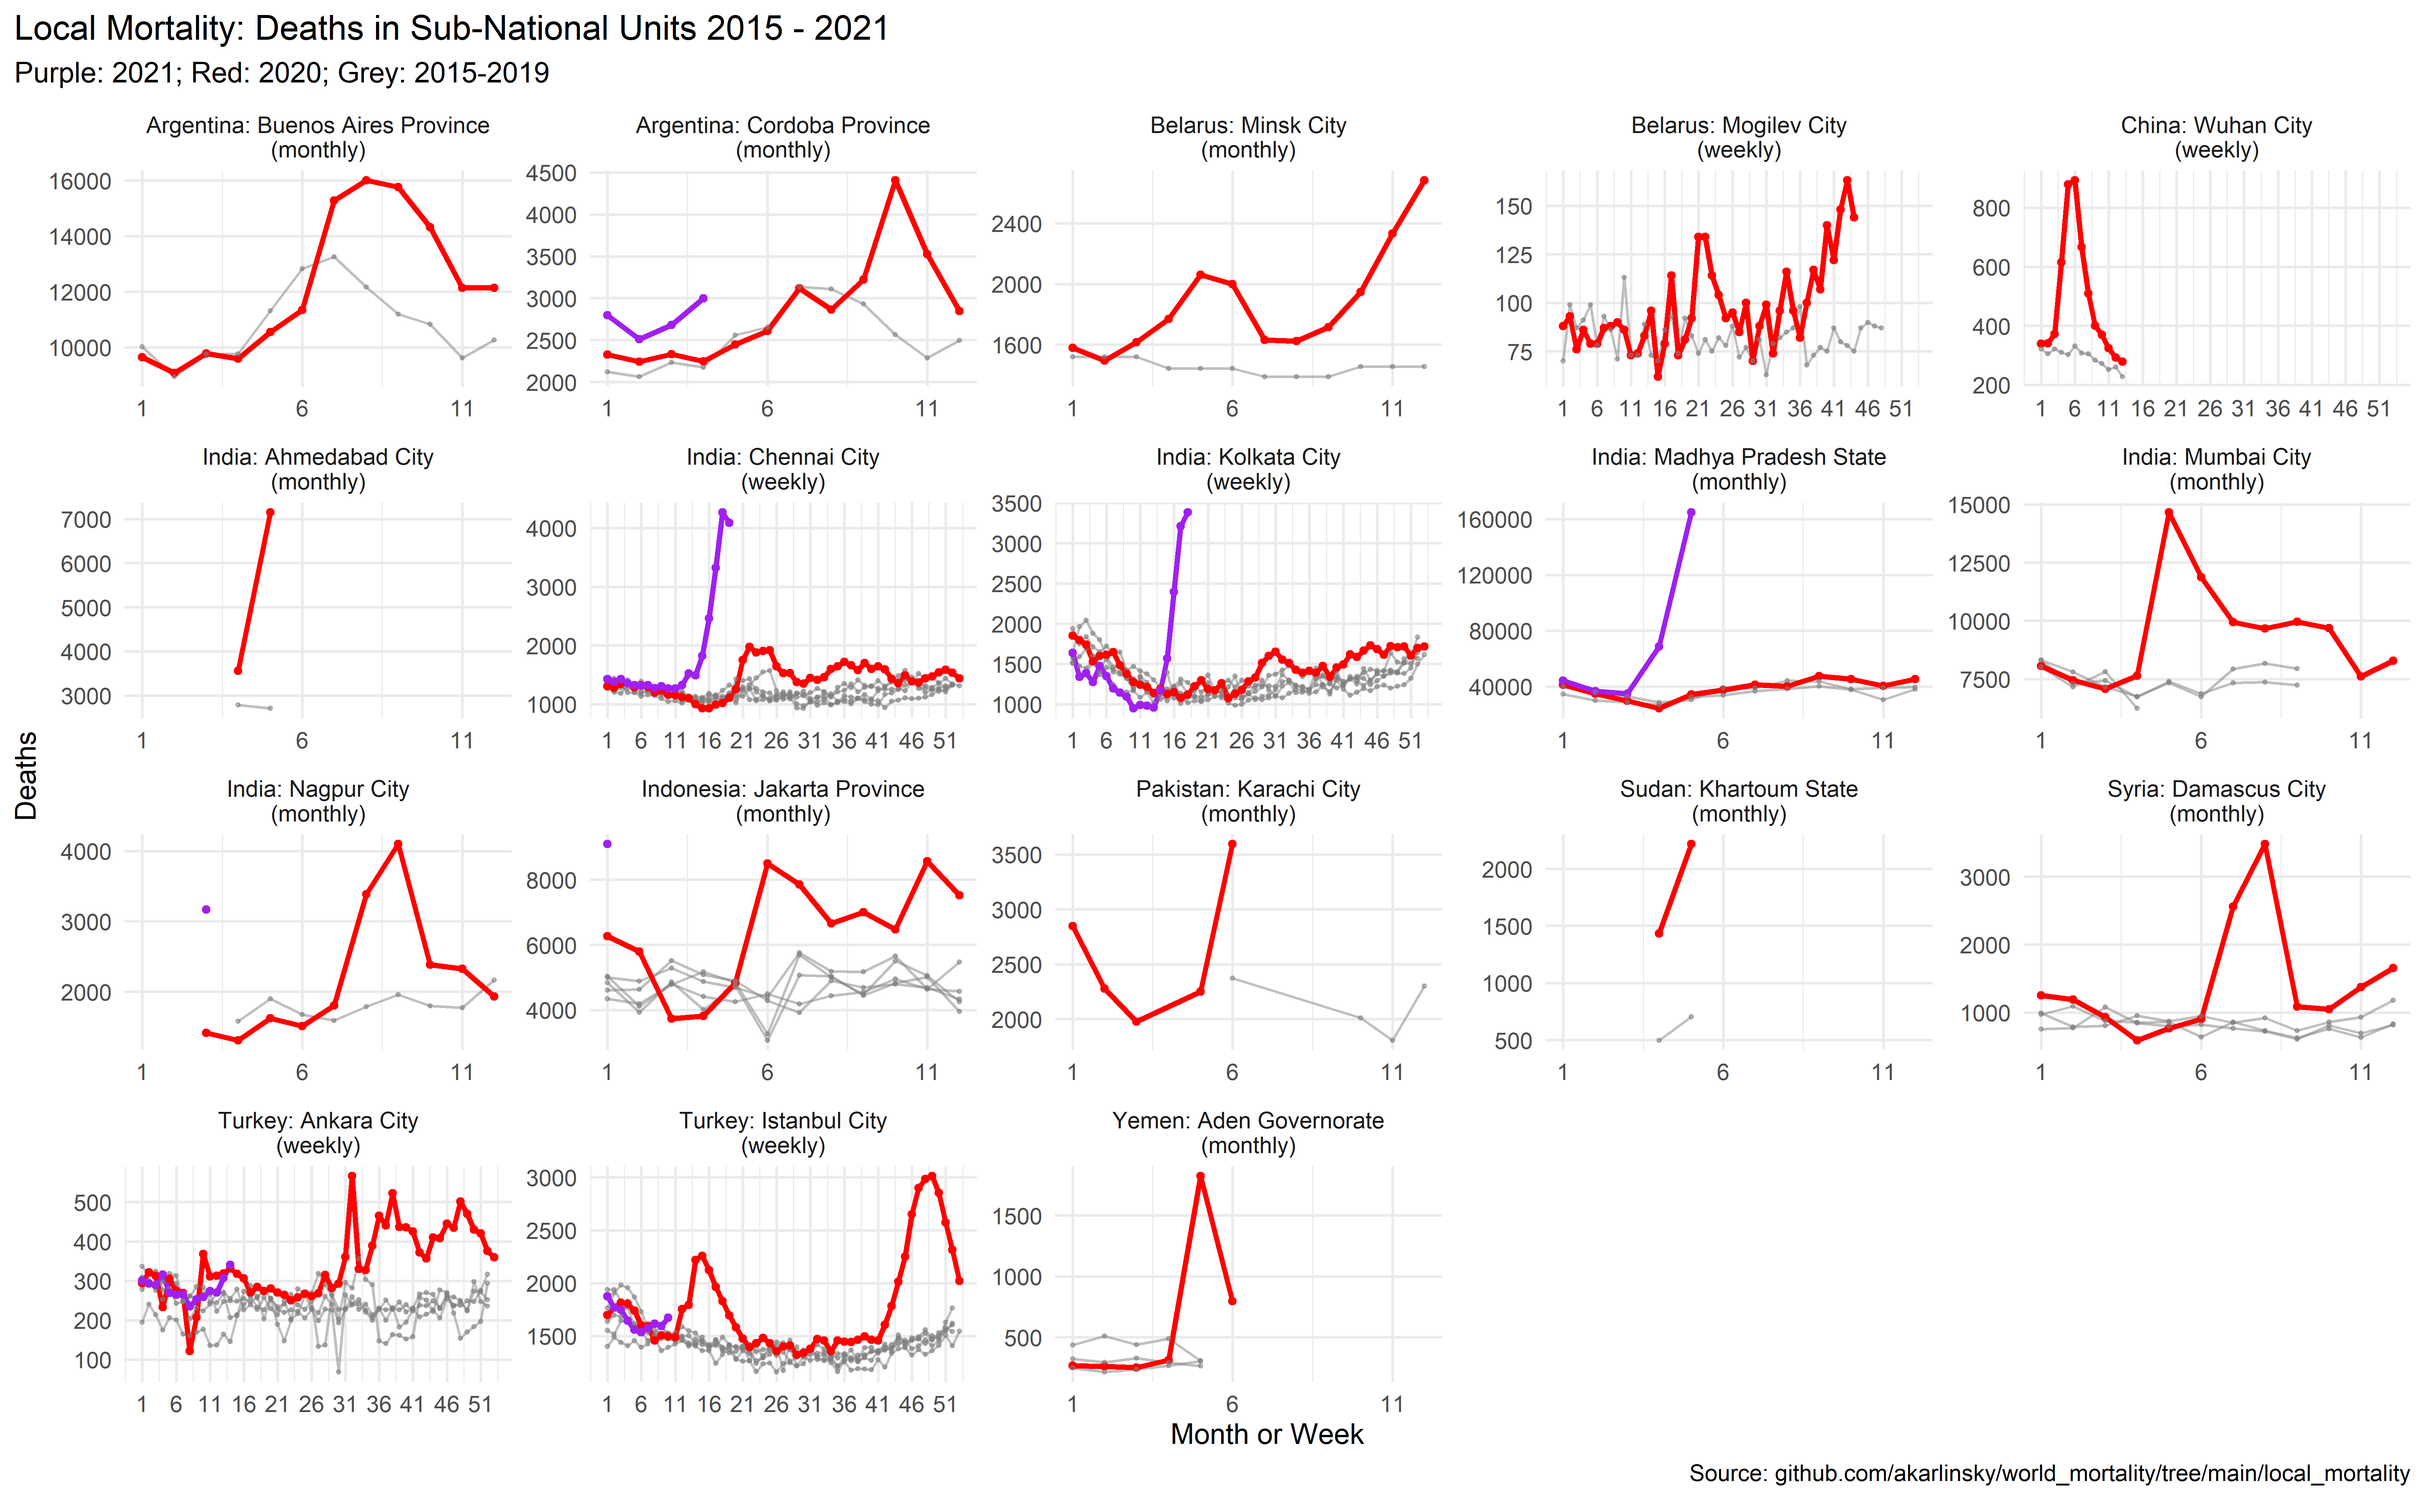
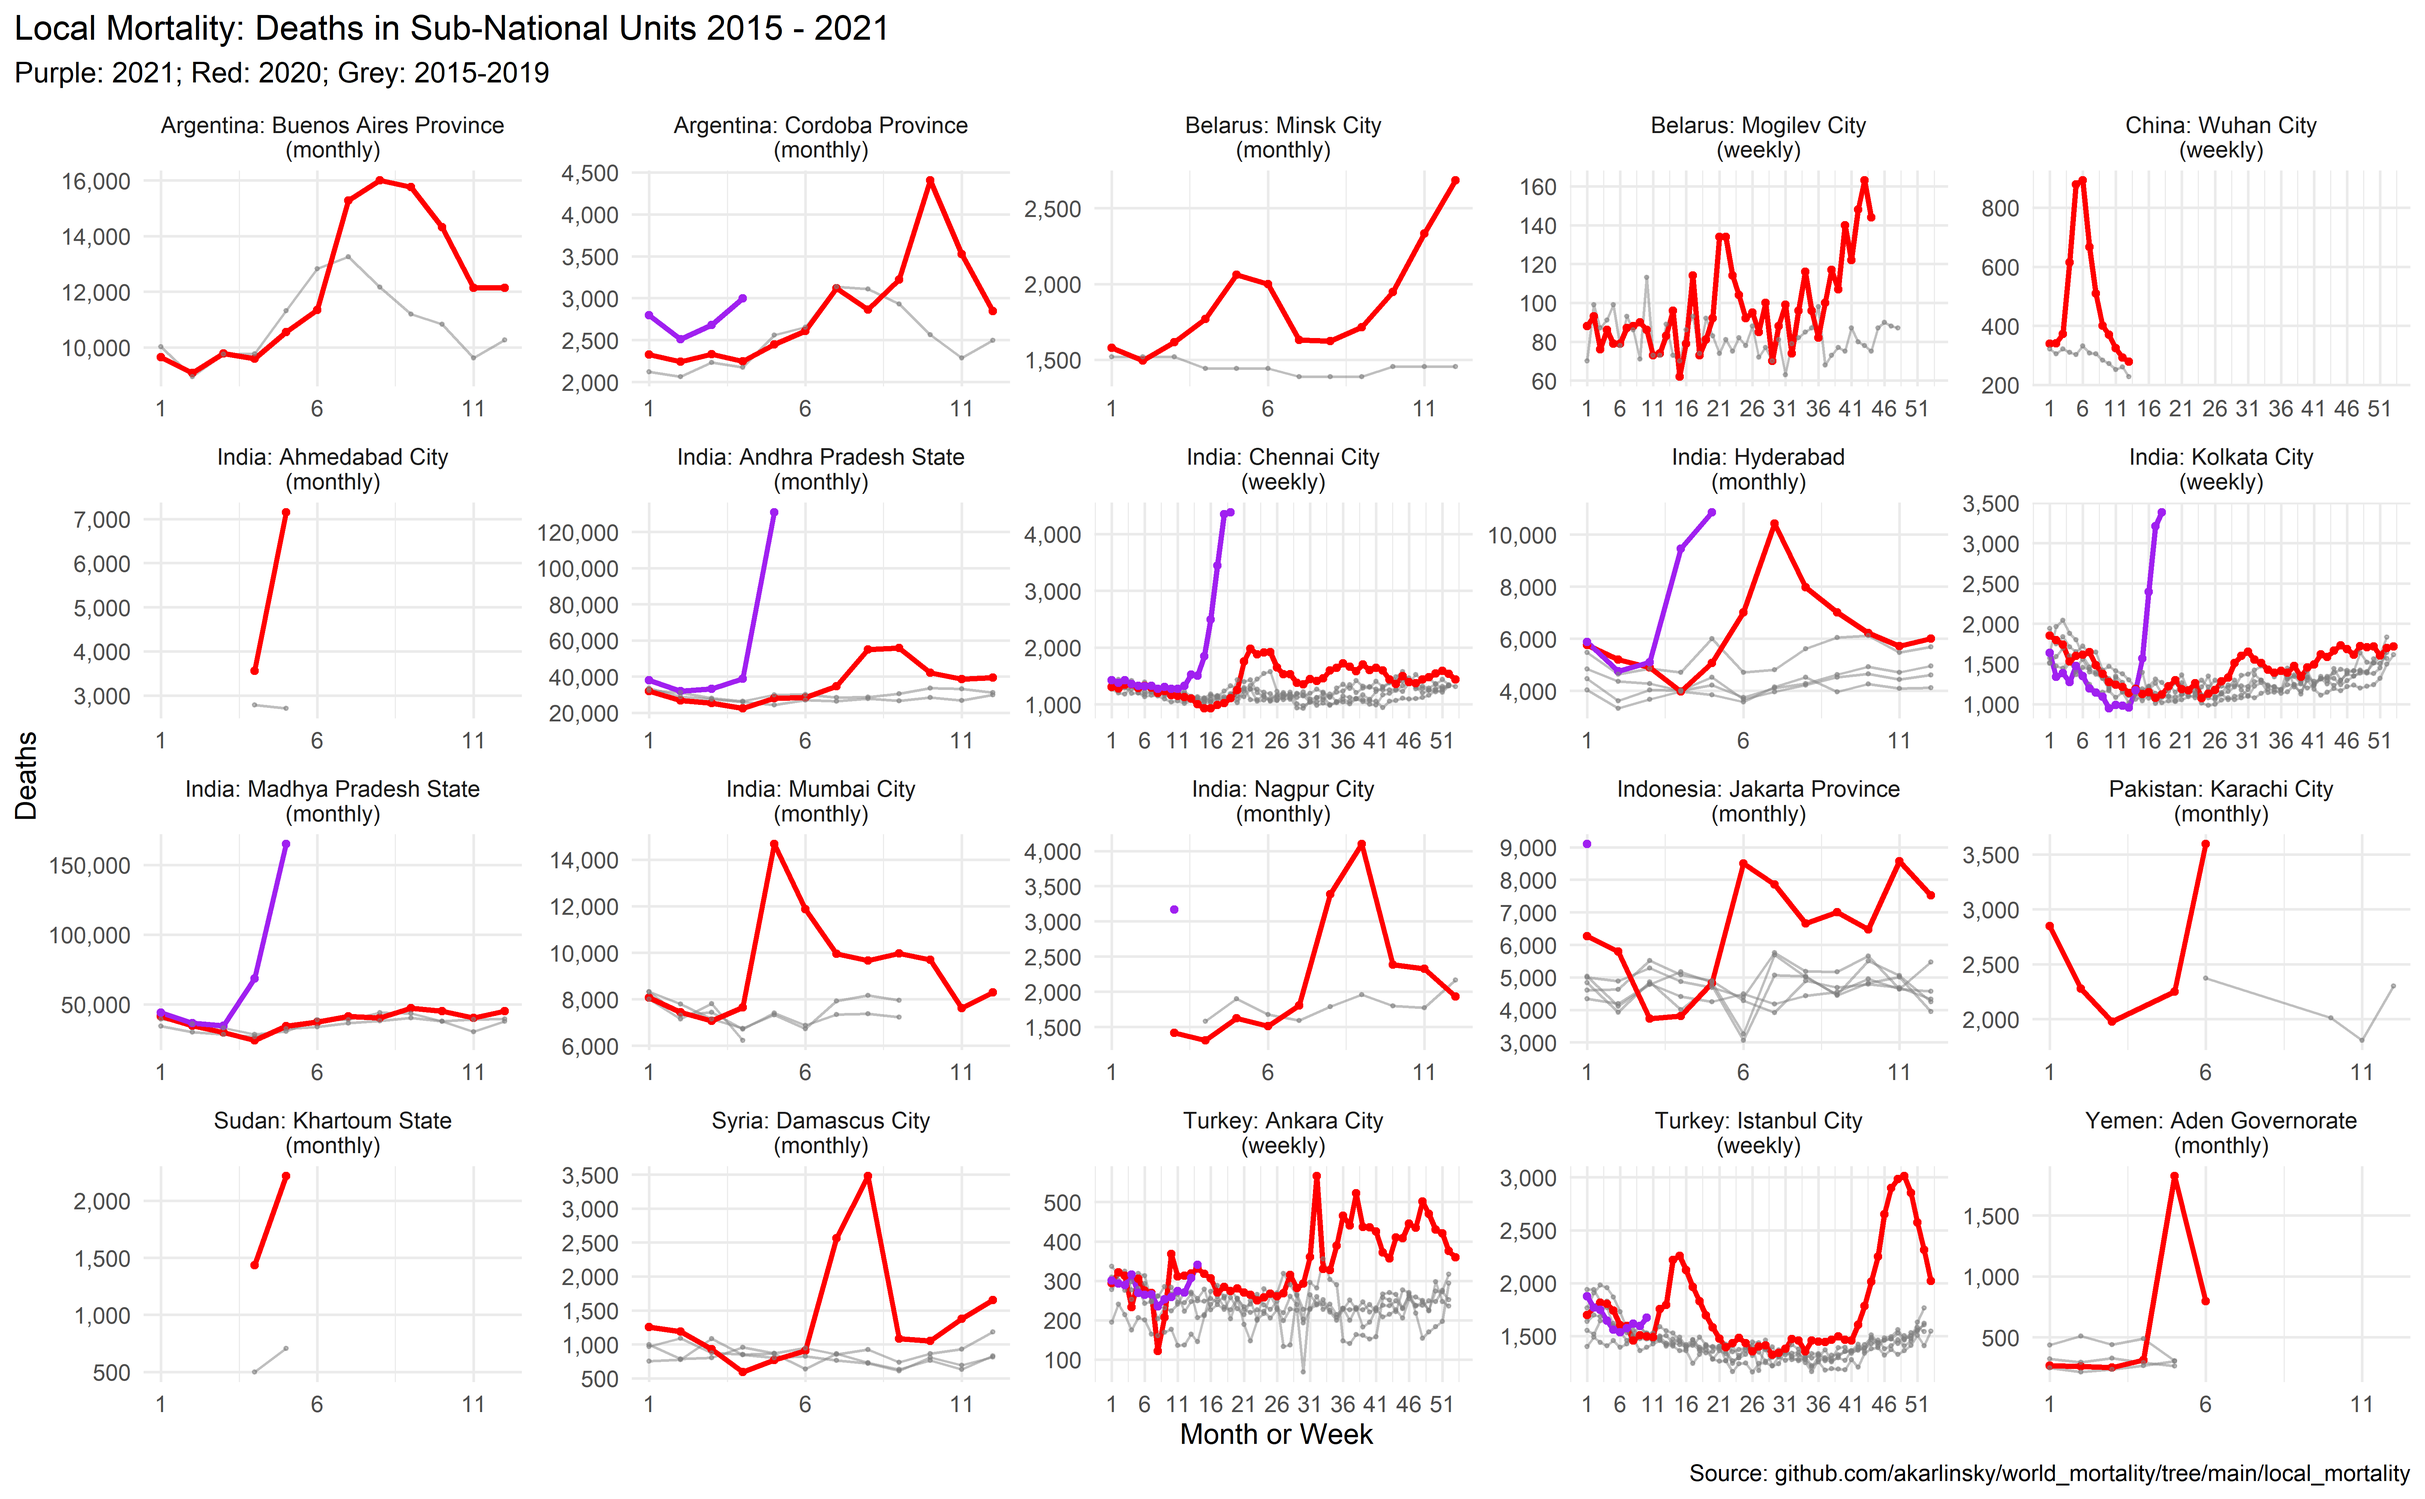
Local Mortality and Preliminary Mortality Update
- New:
Tamil Nadu state, India.
Andhra Pradesh State, India.
Greater Hyderabad, India.

- Revisions: Chennai, India.

diff --git a/local_mortality/README.md b/local_mortality/README.md
@@ -52,10 +52,21 @@ https://www.bmj.com/content/372/bmj.n415
 ### Ahmedabad City
 https://www.reuters.com/article/us-health-coronavirus-india-casualties-idUSKBN24311A
 
+### Andhra Pradesh State
+Andhra Pradesh Civil Registration System, as reported in: https://scroll.in/article/997427/andhra-pradesh-saw-400-increase-in-deaths-in-may-tamil-nadu-saw-more-modest-excess-mortality
+
+Information from [Rukmini S](https://twitter.com/Rukmini).
+
 ### Chennai City
 Daily Registered Deaths in Chennai: https://github.com/elseasama/covid19chennai/tree/gh-pages/chennai_data, a scrape of [Chennai Municipal Corporation data](https://chennaicorporation.gov.in/gcc/online-services/death-certificate/).
 
 Information from [Rukmini S](https://twitter.com/Rukmini).
+
+### Greater Hyderabad
+Greater Hyderabad Municipal Corporation death certificates,
+As reported in: https://www.thehindu.com/news/cities/Hyderabad/excess-deaths-in-hyderabad-are-10-times-the-official-covid-19-toll-for-telangana/article34807214.ece
+
+Information from Srinivasan Ramani and Vignesh Radhakrishnan.
 
 ### Madhya Pradesh State
 Madhya Pradesh Civil Registration System, as reported in: https://scroll.in/article/996772/madhya-pradesh-saw-nearly-three-times-more-deaths-than-normal-after-second-wave-of-covid-19-struck

diff --git a/preliminary_mortality/README.md b/preliminary_mortality/README.md
@@ -34,6 +34,12 @@ Monthly counts for Albania are published when available on [World Mortality](htt
 2019-2020: https://www.thehindu.com/news/national/karnataka/32-increase-in-mortality-rate-in-bengaluru-patil/article32509298.ece
 
 
+### Tamil Nadu State, India
+2018-2021: https://scroll.in/article/997427/andhra-pradesh-saw-400-increase-in-deaths-in-may-tamil-nadu-saw-more-modest-excess-mortality
+
+Information from [Rukmini S](https://twitter.com/Rukmini).
+
+
 ### Republika Srpska (Quarterly)
 One of Bosnia & Herzegovina two autonomous entities.
 
